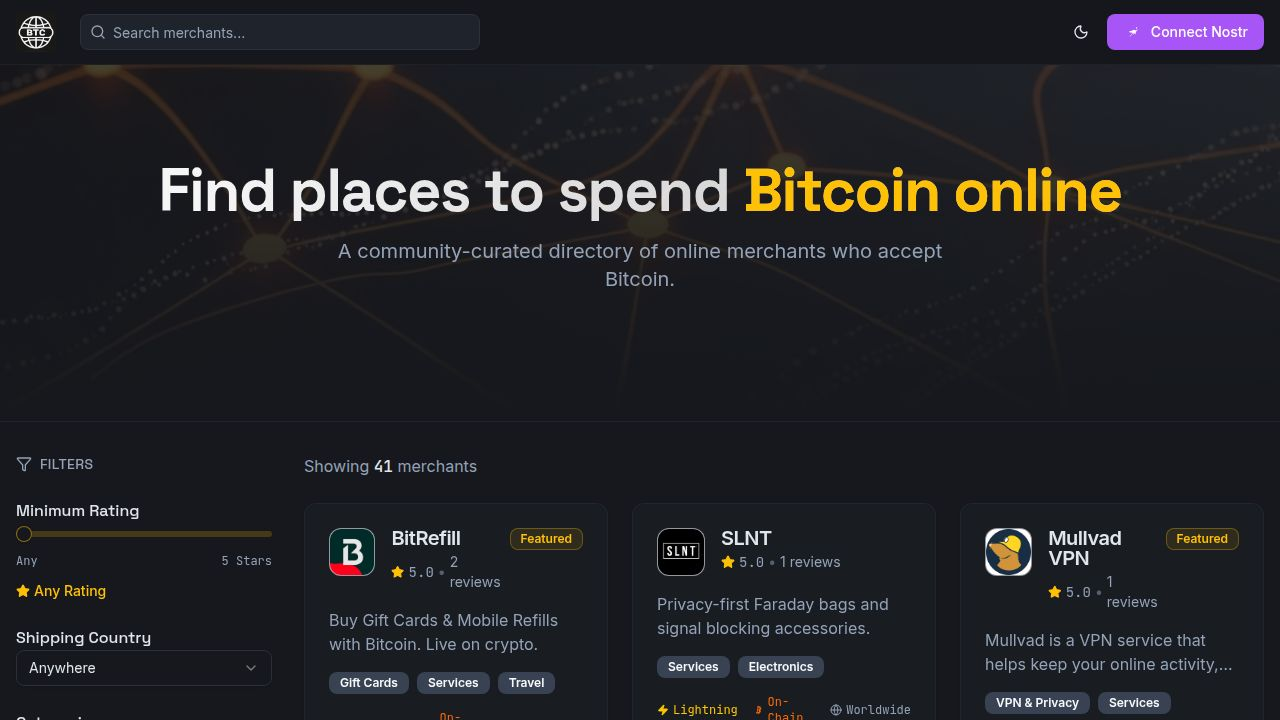
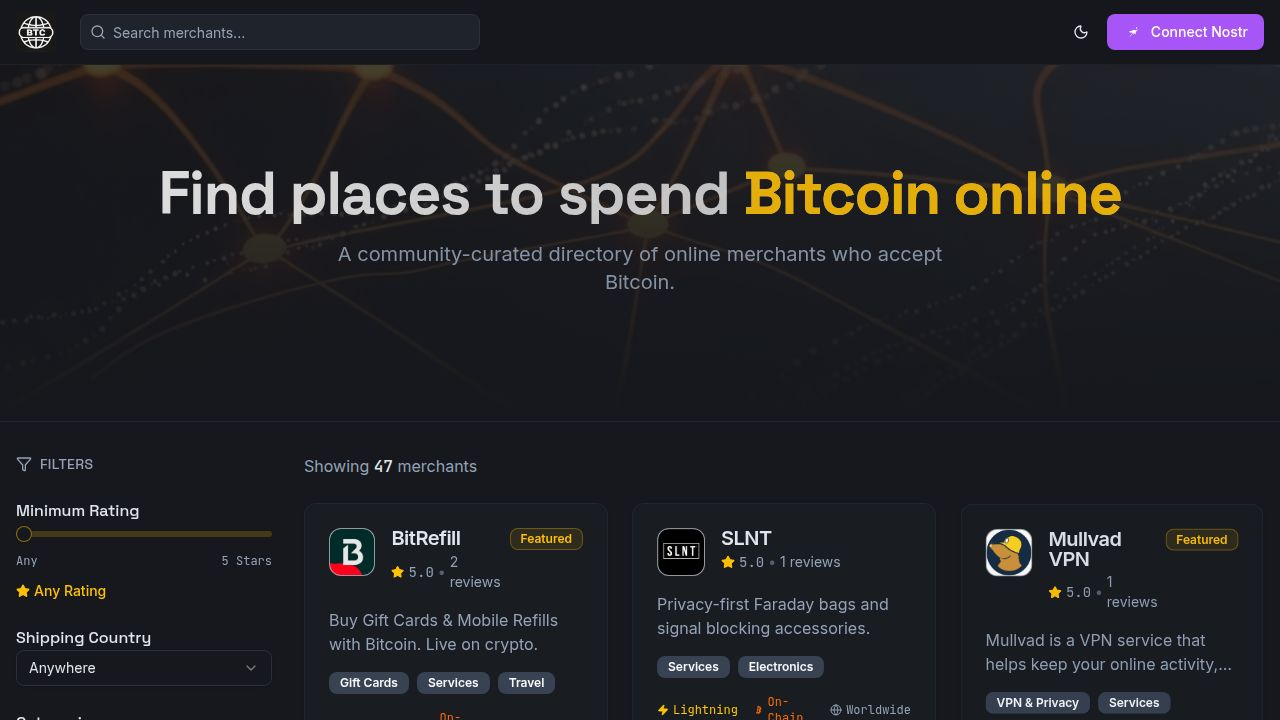
Add Hempful to the merchant directory and update image scaling
Adds Hempful to the merchant directory in `mock-data.ts` and updates `merchant-card.tsx` to include scaling for the Hempful logo.

Replit-Commit-Author: Agent
Replit-Commit-Session-Id: 3686536b-46df-440e-afe3-7f376a12dc5f
Replit-Commit-Checkpoint-Type: full_checkpoint
Replit-Commit-Event-Id: 769d5a9c-b54c-4ade-8354-b33e64e6bc26
Replit-Commit-Screenshot-Url: https://storage.googleapis.com/screenshot-production-us-central1/836d56c9-18a9-46ad-9972-6a9fa87541a8/3686536b-46df-440e-afe3-7f376a12dc5f/cZBQHU8
Replit-Helium-Checkpoint-Created: true

diff --git a/client/src/components/merchant-card.tsx b/client/src/components/merchant-card.tsx
@@ -94,7 +94,8 @@ export default function MerchantCard({ merchant }: MerchantCardProps) {
                   merchant.name.toLowerCase() === 'kawa' ? 'scale-100 object-cover' : 
                   merchant.name.toLowerCase() === 'asf tutoring' ? 'scale-100 object-cover' : 
                   merchant.name.toLowerCase() === 'the suffolk tutor' ? 'scale-90 object-contain' : 
-                  merchant.name.toLowerCase() === "jimble's jumble" ? 'scale-100 object-cover' : ''
+                  merchant.name.toLowerCase() === "jimble's jumble" ? 'scale-100 object-cover' : 
+                  merchant.name.toLowerCase() === 'hempful' ? 'scale-100 object-cover' : ''
                 }`} 
               />
             ) : (

diff --git a/client/src/lib/mock-data.ts b/client/src/lib/mock-data.ts
@@ -606,5 +606,17 @@ export const MOCK_MERCHANTS: Merchant[] = [
     lightningSupported: true,
     onchainSupported: true,
     reviews: []
+  },
+  {
+    id: "48",
+    name: "Hempful",
+    description: "Premium European CBD and hemp products. High-potency, full-spectrum CBD oils, beverages, and skincare grown in the perfect climate for maximum potency.",
+    logo: "https://hempful.eu/wp-content/uploads/2025/11/homepage-hempful-cbd3.png.jpg",
+    categories: ["Food & Drink", "Wellness", "Health & Beauty"],
+    shippingCountries: ["Worldwide", "UK", "Europe"],
+    website: "https://hempful.eu/",
+    lightningSupported: true,
+    onchainSupported: true,
+    reviews: []
   }
 ];
